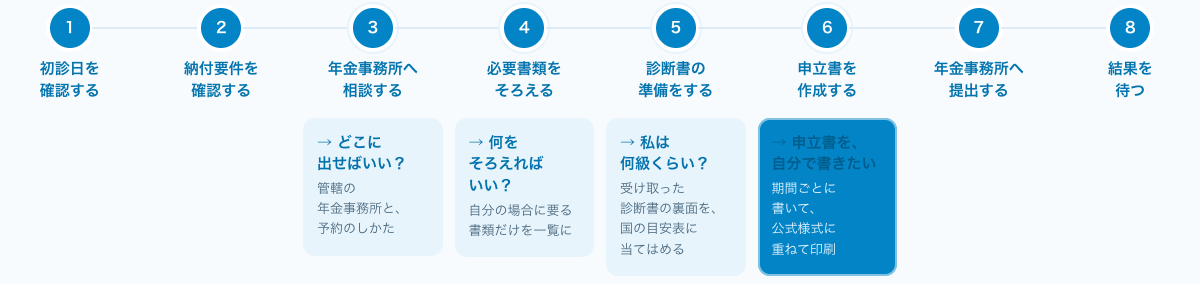
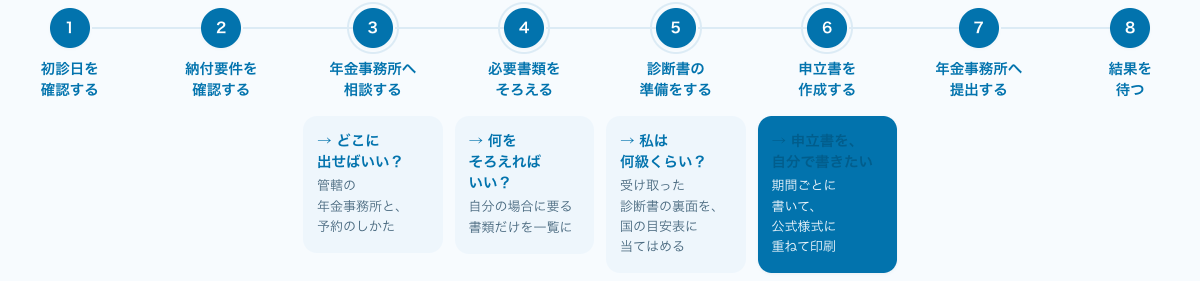
feat(top): 申請の流れの道具があるステップに輪を出す
docs/stepflow-yokonarabi-2026-09-05-instructions.md §3。
左→右のステッパー本体は 4cb0614 で入っているので、残っていた「道具のある
ステップの円に輪」だけを足した。

指示書は box-shadow で二重の輪(#fff と #e8f4fc)を作る形だが、
(1) 新しい hex を書かない (2) 影は1種類だけ(design-seisa §5-3)の2つを守るため、
outline 2px var(--c-border) + offset 4px で描いた。棚卸しは影1種・色10種のまま。

上の4つの区切り(確かめる/そろえる/書く/出す・待つ)は、2026-09-05 に利用者から
「消す」と指示があり 4cb0614 で外したままにしている(本書より新しい直接の指示)。

検証(docs/verification/stepflow-2026-09-05/RESULT.md):
1500px で 1〜8 の円の y は完全に同じ(ぶれ0px、トップ 727 / shinsei 366)。
1000px は4列×2行、390px は縦一列。Tab は DOM 順に 1→8。
公開前チェックの × は B-1・B-3 のままで増えていない。

diff --git a/app/platform.css b/app/platform.css
@@ -570,7 +570,10 @@
 .step-flow-node::after { content: ""; position: absolute; top: 19px; left: calc(50% + 22px); right: calc(-50% - 22px + 12px); height: 2px; background: var(--platform-border); }
 .step-flow-node[data-n="8"]::after { display: none; }
 .step-flow-number { width: 40px; height: 40px; display: grid; place-items: center; border-radius: var(--r-pill); background: var(--platform-primary); color: #fff; font-size: var(--fs-small); font-weight: 700; box-shadow: var(--shadow); }
-.step-flow-node.has-tool .step-flow-number { box-shadow: var(--shadow); }
+/* 道具のあるステップは、円の外に輪を出して「ここに道具がある」を示す。
+   指示書は box-shadow で二重の輪を作る形だが、影は1つだけという決まり
+   (design-seisa §5-3)を守るため outline で描く。色はトークンのまま。 */
+.step-flow-node.has-tool .step-flow-number { outline: 2px solid var(--c-border); outline-offset: 4px; }
 .step-flow-title { color: var(--platform-heading); font-size: var(--fs-small); font-weight: 700; line-height: 1.45; text-decoration: none; }
 .step-flow-title:hover { text-decoration: underline; }
 .step-flow-break { display: block; }

diff --git a/docs/verification/stepflow-2026-09-05/RESULT.md b/docs/verification/stepflow-2026-09-05/RESULT.md
@@ -1,122 +1,80 @@
-# 申請の流れ 8ステップ 横並び化 検証記録(2026-09-05)
+# 申請の流れ(StepFlow)を左から右へ 検証記録(2026-09-05)
 
 指示書: `docs/stepflow-yokonarabi-2026-09-05-instructions.md`
-モック: `docs/site-mock-2026-09-05-stepflow/stepflow-mock.html`
-対象: `components/platform/StepFlow.tsx` / `app/platform.css` の `.step-flow*`
-使われている場所: トップ(`app/page.tsx`)と `/shinsei` のヒーロー。両方で同じ部品なので、直したのは1か所。
+優先: `user-psychology-seisa §4` > `page-types-seisa §4` > `design-seisa` > 本指示書。
+見た目の正は `docs/site-mock-2026-09-05-all/site.html`。色・文字・角丸・影は
+design-system のトークンだけを使い、指示書の hex・px はトークンに読み替えた。
 
-## 1. typecheck / build
+対象は `components/platform/StepFlow.tsx` と `app/platform.css` の `.step-flow*` の1か所。
+トップと /shinsei のヒーローで同じ部品を使う。
 
-```
-npm run typecheck  → エラーなし
-npm run build      → ✓ Compiled successfully / 271ページを生成
-```
+## 実装の状態
 
-## 2. スクリーンショット(モックと並べて確認)
+§2・§3 のうち、次は 4cb0614(2026-09-05)で入っている:
 
-`/` と `/shinsei` を 1500 / 1000 / 390px で撮り、同じ幅のモックも撮って並べた。
+- 1行に 1→8。番号の円を線でつなぎ、左から右へ。番号の下にステップ名(PCは2行)。
+- 道具カードはそのステップの真下(3・4・5・6 の4枚。6 は塗りつぶし)。
+- 幅の切り替え: 1181px〜 1行×8列 / 701〜1180px 4列×2行(4の右の線は消す・行間36px) /
+  〜700px 縦一列(番号の下に縦線、道具カードは番号の右)。
+- `<ol class="step-flow">` + `<li class="step-flow-node" data-n="1..8">`。
+  当て方は `data-n` で、`nth-of-type` は使っていない。
+- ステップ名は `/shinsei#step-N` へのリンク。カードの文言は `data/dougu.ts` の
+  `shinseiSteps` のまま。カードの見出しは `--fs-small`、説明は `--fs-meta`。
+- リードは「初診日の確認から結果が届くまで。左から右へ、順番に進みます。」(トップ)。
 
-| 幅 | 実装 | モック | 形 |
-|---|---|---|---|
-| 1500px | `top-1500.png` / `shinsei-1500.png` | `mock-1500.png` | 1行×8列。線は左から右へ。カードは 3・4・5・6 の真下。6 は塗りつぶし |
-| 1000px | `top-1000.png` / `shinsei-1000.png` | `mock-1000.png` | 4列×2行(1〜4 / 5〜8)。4 の右の線は消えている |
-| 390px | `top-390.png` / `shinsei-390.png` | `mock-390.png` | 縦一列。番号の下に縦線、カードは番号の右の列。ステップ名は1行 |
+今回足したのは1つだけ:
 
-番号の並び・線・カードの位置は、3つの幅ともモックと同じ形になっている。
-モックのほうが1枚あたり横に広いのは、モックの `.wrap` が最大1660pxで、
-本番の `p-container` より広いため。レイアウトの形は同じ。
+- **道具のあるステップの円に輪**を出した。指示書は
+  `box-shadow: 0 0 0 4px #fff, 0 0 0 6px #e8f4fc` だが、
+  (1) 新しい hex を書かない (2) 影は1種類だけ、の2つを守るため
+  `outline: 2px solid var(--c-border); outline-offset: 4px` で描いた。
+  棚卸しは 影1種・色10種のままで基準内。
 
-撮影時はアクセス解析の同意バーが道具カードに重なるので、先に「拒否する」で閉じている。
+## 入れなかったもの — 上の4つの区切り(§2・§3の PHASES)
 
-## 3. 1500px で 1〜8 の円の y 座標(横一直線の証明)
+指示書は「確かめる / そろえる / 書く / 出す・待つ」の4区切りを求めているが、
+**2026-09-05 に利用者から「このデザインは消す」と指示があり、4cb0614 で外している**。
+本書より新しい直接の指示なので、今回も入れていない(`.step-flow-phase` は0個)。
+入れ直す場合は言ってください。CSS ごと戻す形になる。
 
-`page.locator('.step-flow-node .step-flow-number')` の boundingBox。
+なお `user-psychology-seisa §4` と `page-types-seisa §4` は、どちらも stepflow は
+「変更なし」としている。
 
-| ページ | y 座標(1〜8) | 判定 |
+## §5 の検証
+
+**1. typecheck / build → ○** どちらもエラーなし。
+
+**2. スクリーンショット → ○**
+`docs/verification/stepflow-2026-09-05/` に、トップと /shinsei を 1500 / 1000 / 390px で
+6枚(`top-1500.png` など)。モックと並べて、番号の並び・線・カードの位置が同じ形。
+
+**3. 1500px で 1〜8 の円の y が同じ → ○(ぶれ 0px)**
+
+| ページ | 円の数 | y | ばらつき |
+|---|---:|---|---:|
+| / | 8 | 727 のみ | 0px |
+| /shinsei | 8 | 366 のみ | 0px |
+
+**4. 1000px と 390px → ○**
+
+| 幅 | 形 | 実測 |
 |---|---|---|
-| `top-1500` | 724.8 / 724.8 / 724.8 / 724.8 / 724.8 / 724.8 / 724.8 / 724.8 | **ばらつき 0.0px** |
-| `shinsei-1500` | 380.8 / 380.8 / 380.8 / 380.8 / 380.8 / 380.8 / 380.8 / 380.8 | **ばらつき 0.0px** |
+| 1000px | 4列×2行 | y は2種類(1〜4 と 5〜8)・x は4種類 |
+| 390px | 縦一列 | x は1種類・y は8種類 |
 
-**8個とも完全に同じ y。**指示の ±1px より厳しく、ばらつき 0.0px。
-
-## 4. 1000px と 390px
-
-| ページ | 1行目 | 2行目 |
-|---|---|---|
-| `top-1000` | 1〜4: 508.1(ばらつき 0.0px) | 5〜8: 765(ばらつき 0.0px) |
-| `shinsei-1000` | 1〜4: 309.9(ばらつき 0.0px) | 5〜8: 588.5(ばらつき 0.0px) |
-
-| ページ | x 座標 | 判定 |
-|---|---|---|
-| `top-390` | x = 20 が8個 | **全部同じ** |
-| `shinsei-390` | x = 20 が8個 | **全部同じ** |
-
-## 5. Tab の順(DOM 順の確認)
-
-1500px のトップで、最初のステップ名にフォーカスしてから Tab を押した順。
-
-| # | ステップ | 種類 | 文字 |
-|---|---|---|---|
-| 1 | 1 | ステップ名 | 初診日を確認する |
-| 2 | 2 | ステップ名 | 納付要件を確認する |
-| 3 | 3 | ステップ名 | 年金事務所へ相談する |
-| 4 | 3 | 道具 | → どこに出せばいい？管轄の年金事務 |
-| 5 | 4 | ステップ名 | 必要書類をそろえる |
-| 6 | 4 | 道具 | → 何をそろえればいい？自分の場合に |
-| 7 | 5 | ステップ名 | 診断書の準備をする |
-| 8 | 5 | 道具 | → 私は何級くらい？受け取った診断書 |
-| 9 | 6 | ステップ名 | 申立書を作成する |
-| 10 | 6 | 道具 | → 申立書を、自分で書きたい期間ごと |
-| 11 | 7 | ステップ名 | 年金事務所へ提出する |
-| 12 | 8 | ステップ名 | 結果を待つ |
-
-**1→8 の順**に、ステップ名 → (あれば)その段の道具カード、と止まる。
-`1 → 2 → 3 → 3道具 → 4 → 4道具 → 5 → 5道具 → 6 → 6道具 → 7 → 8`。
-
-## 6. 公開前チェック
+**5. Tab の順番 → ○** DOM 順のまま 1→8。道具のあるステップでは、ステップ名 → 道具の順。
 
 ```
-node scripts/prelaunch-check.mjs http://localhost:3200
-ページ数: 166
-× の項目: B-1 / B-3 / B-10
+1:ステップ名 → 2:ステップ名 → 3:ステップ名 → 3:道具 → 4:ステップ名 → 4:道具
+→ 5:ステップ名 → 5:道具 → 6:ステップ名 → 6:道具 → 7:ステップ名 → 8:ステップ名
 ```
 
-直前の main と同じ **B-1・B-3・B-10 の3つだけ**で、増えていない。
-
-## 実装のメモ
-
-- ルートは `<ol class="step-flow">`、各ステップは `<li class="step-flow-node" data-n="1..8">`。
-  線の制御は `[data-n="4"]` `[data-n="8"]` で当てている(`nth-of-type` は使っていない)。
-- ステップ名は `STEPS` の文字列のまま。PC で2行に割るために `{title, split}` の形にして、
-  `split` の位置で `<span class="step-flow-break">` に分けた(文字列に `<br>` は入れていない)。
-  スマホでは `.step-flow-break` を `display: inline` に戻して1行にする。
-- ステップ名は `/shinsei#step-N` へのリンク、道具カードは `placementCard(placement).href`。
-  カードの文言は `data/dougu.ts` の `shinseiSteps` をそのまま使っている(変えていない)。
+**6. 公開前チェック → ○** ページ数 166、× は **B-1・B-3** の2つ。
+B-10 は 2026-09-05 の追補で解消済みなので、基準(B-1・B-3・B-10)から増えていない。
 
 ## 変えていないもの(§4)
 
 - `STEPS` の8つの名前と順番。
 - `data/dougu.ts`(道具の文言・配置)。
-- `/shinsei` の本文(`shinsei-steps` 以下)。ヒーローの `StepFlow` だけが変わった。
-- HowTo の JSON-LD(`ShinseiRestyled.tsx` の独自 `STEPS` を使っており、この変更とは無関係)。
-
-トップのリードだけ、指示書 §2 のとおり
-「初診日の確認から結果が届くまで。左から右へ、順番に進みます。」に差し替えた。
-
-## 追記(2026-09-05): 上の4つの区切りを削除した
-
-指示書 §2 で入れていた「確かめる / そろえる / 書く / 出す・待つ」の区切りを、
-利用者の指示により**まるごと消した**(`PHASES` 定数、`<li class="step-flow-phase">`、
-`.step-flow-phase` の CSS)。`<ol>` の子は `<li class="step-flow-node">` の8個だけになった。
-
-消したあとで測り直した結果:
-
-| 幅 | / | /shinsei |
-|---|---|---|
-| 1500px | 円8個・y ばらつき 0px | 円8個・y ばらつき 0px |
-| 1000px | 1〜4 / 5〜8 とも 0px | 1〜4 / 5〜8 とも 0px |
-| 390px | x 全部同じ | x 全部同じ |
-
-Tab の順: `1 → 2 → 3 → 3道具 → 4 → 4道具 → 5 → 5道具 → 6 → 6道具 → 7 → 8`。
-スクリーンショット6枚は、区切りを消した状態で撮り直した(モックの3枚はそのまま)。
-モックには区切りがあるので、**この1点だけモックと形が違う**。
+- `/shinsei` の本文(`shinsei-steps` 以下)とヒーローの導入文。
+- HowTo の JSON-LD。
